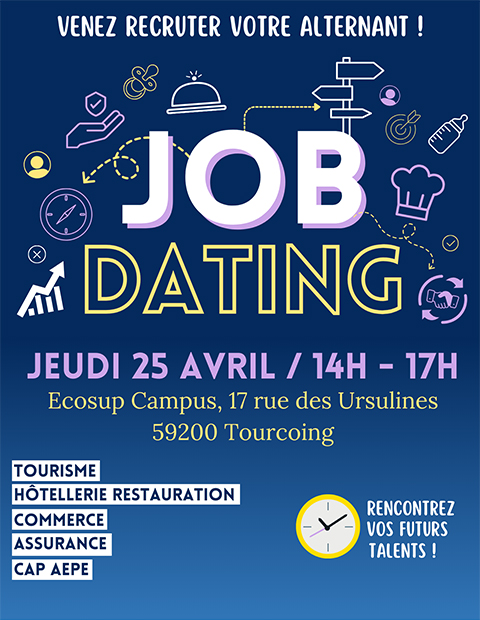
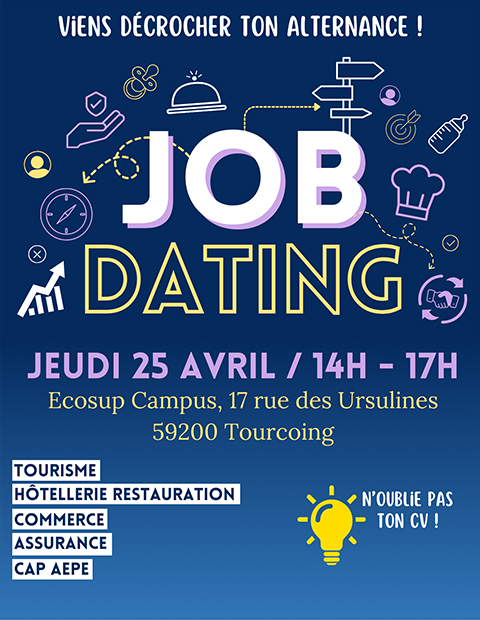
modification de l'affiche

diff --git a/index.html b/index.html
@@ -706,7 +706,7 @@
                                     <tbody>
                                       <tr>
                                         <td style="width:260px;" class="mj-full-width-mobile">
-                                          <img alt="Affiche JOB DATING 25/04/2024" src="https://img.mailinblue.com/3403292/images/content_library/original/6614d695d9a1bc2e47fcd495.jpg" style="border:0;display:block;outline:none;text-decoration:none;height:auto;width:100%;font-size:13px;" width="260" height="auto" />
+                                          <img alt="Affiche JOB DATING 25/04/2024" src="https://img.mailinblue.com/3403292/images/content_library/original/6614f9a7d98ef3df5ce2fe67.jpg" style="border:0;display:block;outline:none;text-decoration:none;height:auto;width:100%;font-size:13px;" width="260" height="auto" />
                                         </td>
                                       </tr>
                                     </tbody>
